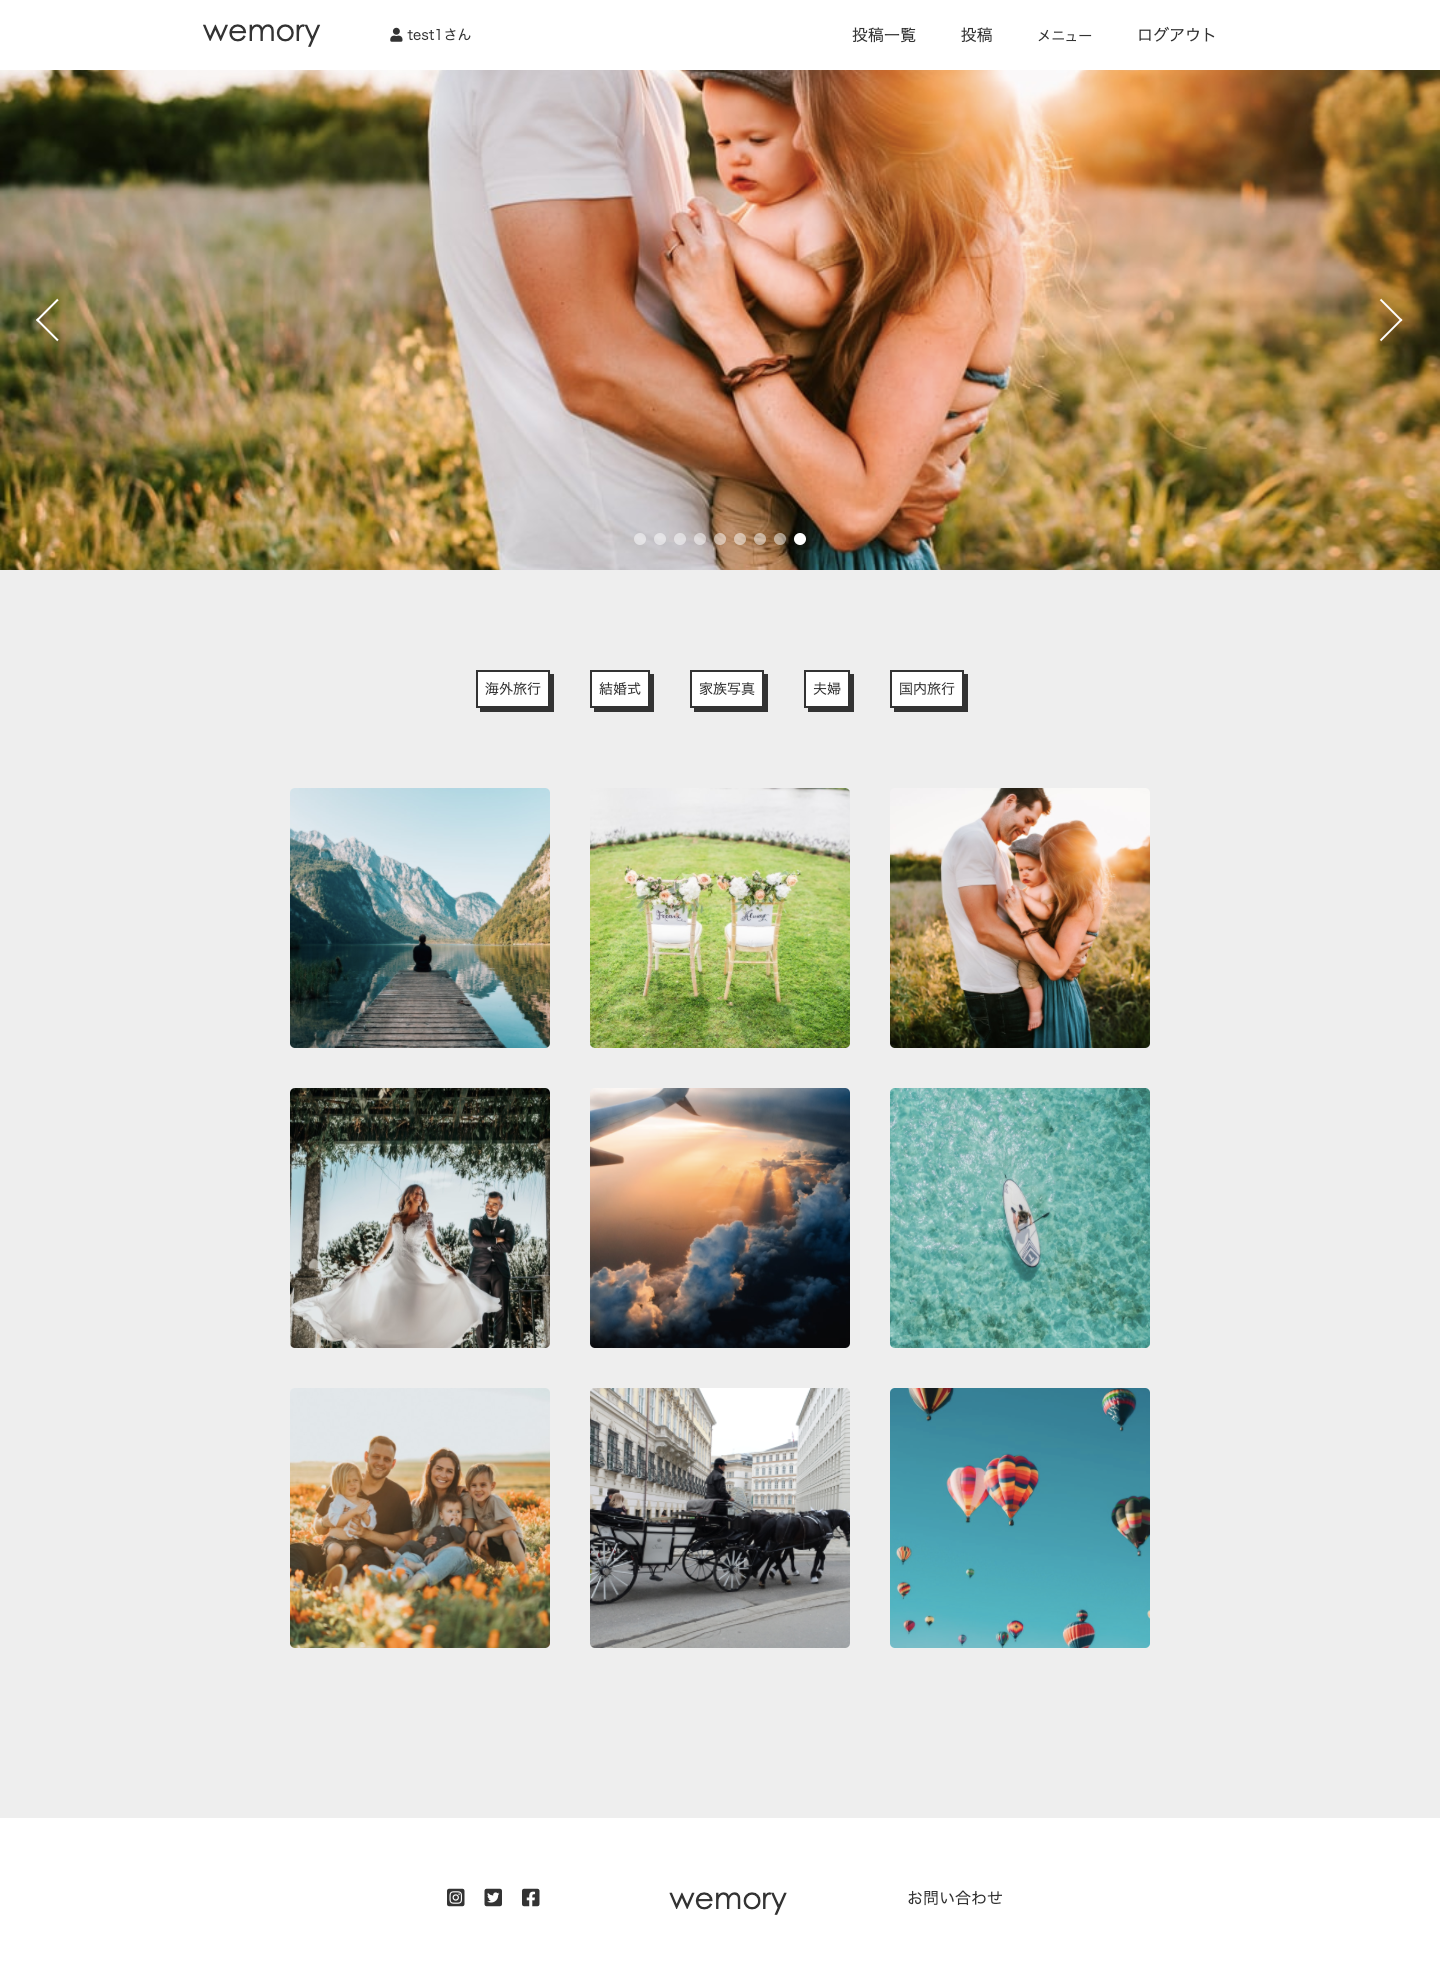
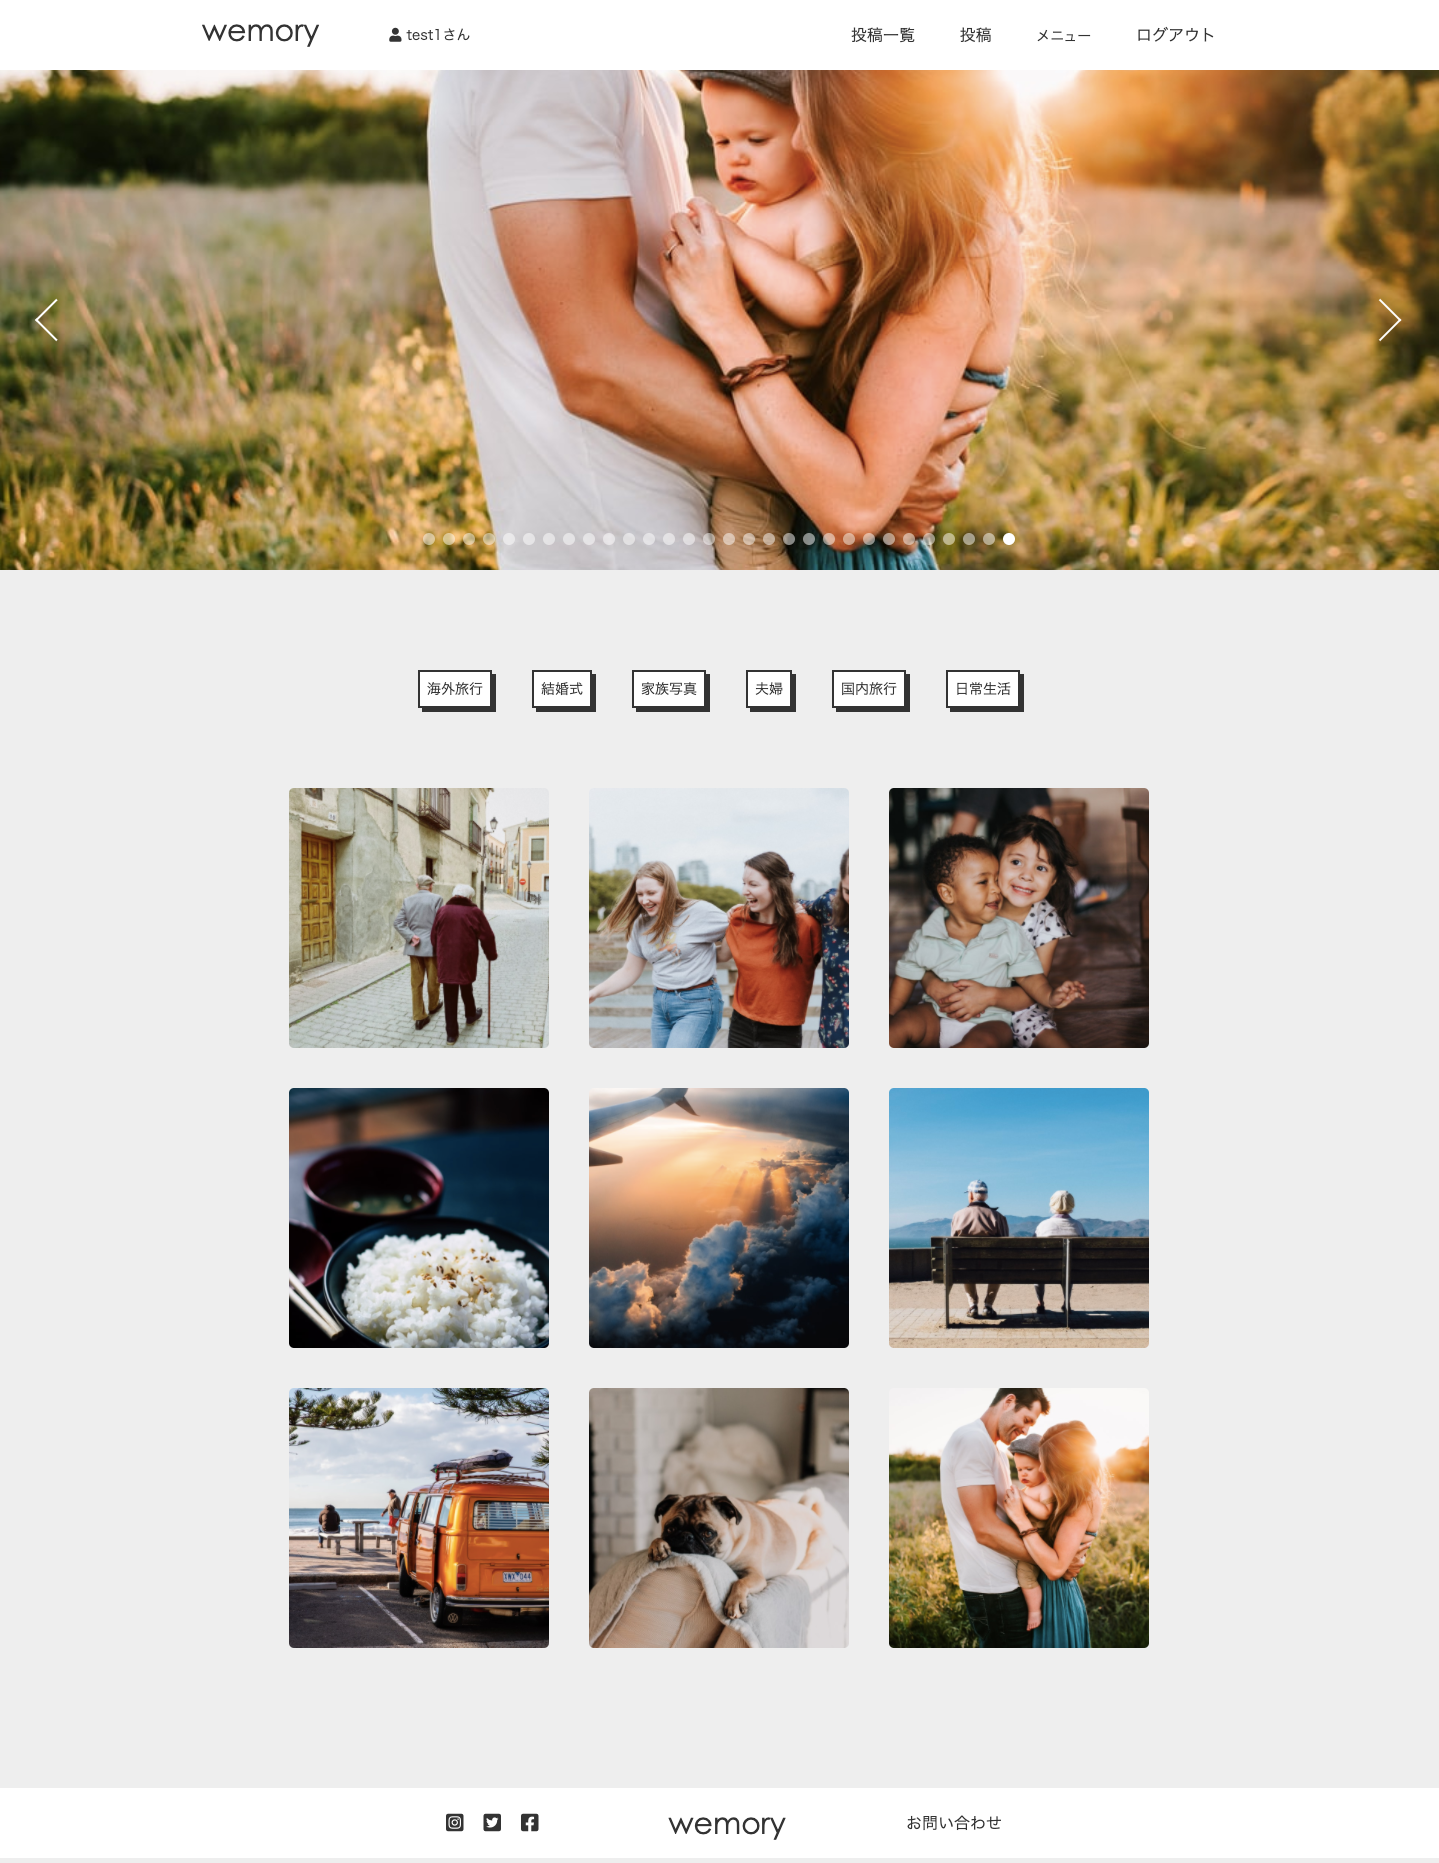
Edit about_page

diff --git a/app/assets/stylesheets/homes.scss b/app/assets/stylesheets/homes.scss
@@ -58,43 +58,39 @@
   margin-top: 70px;
 }
 
-#theTarget img {
-  object-fit: cover;
-}
-
 // アバウトページ
 // skp-containerはトップページと共通
 
-.skp-image1 {
+.main-image1 {
   background-image: image-url('test1.jpg')
 }
 
-.skp-image2 {
+.main-image2 {
   background-image: image-url('test2.jpg')
 }
 
-.skp-image3 {
+.main-image3 {
   background-image: image-url('test3.jpg')
 }
 
-.skp-image4 {
+.main-image4 {
   background-image: image-url('test4.jpg')
 }
 
-.skp-image5 {
+.main-image5 {
   background-image: image-url('test5.jpg')
 }
 
 .about-text-container1 {
   width: 100%;
-  height: 500px;
+  padding: 50px 0;
   text-align: center;
   background-color: white;
 }
 
 .about-title {
   font-family: "Century Gothic";
-  padding: 50px;
+  height: 80px;
   font-size: 32px;
 }
 
@@ -103,15 +99,53 @@
   line-height: 30px;
 }
 
+.about-thema {
+  font-size: 20px;
+}
+
 .about-text-container2 {
   width: 100%;
-  height: 500px;
+  padding: 50px 0;
   text-align: center;
+}
+
+.skp-container2 {
+  width: 450px;
+  height: 622px;
+  margin: 0 auto 80px;
+  box-shadow: 0 0 8px #333;
+}
+
+.about-headline {
+  display: inline-block;
+  font-size: 18px;
+  border-bottom: 5px solid white;
+  margin-bottom: 30px;
 }
 
 .about-image1 {
   background-image: image-url('wemory.png');
-  width: 720px;
-  height: 989px;
+}
+
+.about-image2 {
+  background-image: image-url('wemory_post_images.png');
+}
+
+.skp-container3 {
+  width: 640px;
+  height: 400px;
   margin: 0 auto;
+  box-shadow: 0 0 8px #333;
+}
+
+.about-image3 {
+  background-image: image-url('wemory_post_image_show.png');
+}
+
+.about-image4 {
+  background-image: image-url('wemory_cart_images.png');
+}
+
+.about-image5 {
+  background-image: image-url('wemory_photo_book.png');
 }

diff --git a/app/assets/javascripts/application.js b/app/assets/javascripts/application.js
@@ -18,7 +18,7 @@
 //= require_tree .
 
 
-// オプションを指定してSkipprの実行
+// aboutページ上段とトップページに使用
 $(document).ready(function(){
   $("#theTarget").skippr({
     // スライドショーの変化（"fade" or "slide"）
@@ -40,6 +40,38 @@ $(document).ready(function(){
     // キーボードの矢印キーによるスライド送りの設定（trueで有効）
     keyboardOnAlways : true,
     // 1枚目のスライド表示時に戻る矢印を表示するかどうか [false]:矢印を隠さない [true]:矢印を隠す
+    hidePrevious : false
+  });
+});
+
+// aboutページ中段に使用
+$(document).ready(function(){
+  $("#theTarget2").skippr({
+    transition : 'fade',
+    speed : 1000,
+    easing : 'easeOutQuart',
+    navType : 'bubble',
+    childrenElementType : 'div',
+    arrows : false,
+    autoPlay : true,
+    autoPlayDuration : 5000,
+    keyboardOnAlways : true,
+    hidePrevious : false
+  });
+});
+
+// aboutページ下段に使用
+$(document).ready(function(){
+  $("#theTarget3").skippr({
+    transition : 'fade',
+    speed : 1000,
+    easing : 'easeOutQuart',
+    navType : 'bubble',
+    childrenElementType : 'div',
+    arrows : false,
+    autoPlay : true,
+    autoPlayDuration : 5000,
+    keyboardOnAlways : true,
     hidePrevious : false
   });
 });

diff --git a/app/assets/stylesheets/post_images.scss b/app/assets/stylesheets/post_images.scss
@@ -14,7 +14,7 @@
   flex-wrap: wrap;
   justify-content: center;
   width: 80%;
-  margin: 0 auto 80px;
+  margin: 0 auto 160px;
 }
 
 .index-image-box img {
@@ -32,11 +32,11 @@
 
 // show
 .whitedisplay {
-  position: fixed;
+  position: absolute;
   top: 0;
   left: 0;
   width: 100%;
-  height: 100%;
+  height: 100vh;
   background: rgba(255,255,255,0.7);
   z-index: 9999;
 }

diff --git a/app/assets/stylesheets/application.scss b/app/assets/stylesheets/application.scss
@@ -201,7 +201,7 @@ header {
 // フッター
 footer {
   width: 100%;
-  height: 20vh;
+  height: 70px;
   background-color: white;
   display: flex;
   justify-content: center;
@@ -231,7 +231,7 @@ footer {
 
 .form-box {
   margin-top: 120px;
-  margin-bottom: 150px;
+  margin-bottom: 50px;
   padding: 50px 80px;
   box-shadow: 0 0 8px #333;
   background-color: white;

diff --git a/app/assets/stylesheets/cart_images.scss b/app/assets/stylesheets/cart_images.scss
@@ -22,6 +22,11 @@
   transition-duration: 0.2s;
 }
 
+.cart-delete-link {
+  font-weight: bold;
+  padding: 10px 0 0 40px;
+}
+
 .cart-btn-container {
   display: flex;
   justify-content: center;

diff --git a/config/routes.rb b/config/routes.rb
@@ -28,6 +28,7 @@ Rails.application.routes.draw do
   get 'approvals/:approver_id/post_images/categories/:category_id' => 'approvals#post_image_index_by_category', as: 'approver_post_images_by_category'
 
   get '/cart_images/index' => 'cart_images#index'
+  delete '/cart_images/destroy_all' => 'cart_images#destroy_all', as: 'cart_images_destroy_all'
 
   get '/post_images/categories/:category_id' => 'post_images#index_by_category', as: 'index_by_category'
 

diff --git a/app/controllers/homes_controller.rb b/app/controllers/homes_controller.rb
@@ -13,7 +13,7 @@ class HomesController < ApplicationController
   end
 
   def top
-    @main_post_images = PostImage.where(user_id: current_user.id).order("RANDOM()")
+    @main_post_images = PostImage.where(user_id: current_user.id).order("RANDOM()").limit(30)
     @categories = Category.where(user_id: current_user.id)
     @post_images = PostImage.where(user_id: current_user.id).order("RANDOM()").limit(9)
   end

diff --git a/app/controllers/cart_images_controller.rb b/app/controllers/cart_images_controller.rb
@@ -18,4 +18,12 @@ class CartImagesController < ApplicationController
     @exist_cart_image = @cart_images.where(user_id: current_user.id).exists?
   end
 
+  def destroy_all
+    cart_images = CartImage.where(user_id: current_user.id)
+    if cart_images.destroy_all
+      flash[:success] = "カートの中身を空にしました。"
+      redirect_to top_path
+    end
+  end
+
 end
